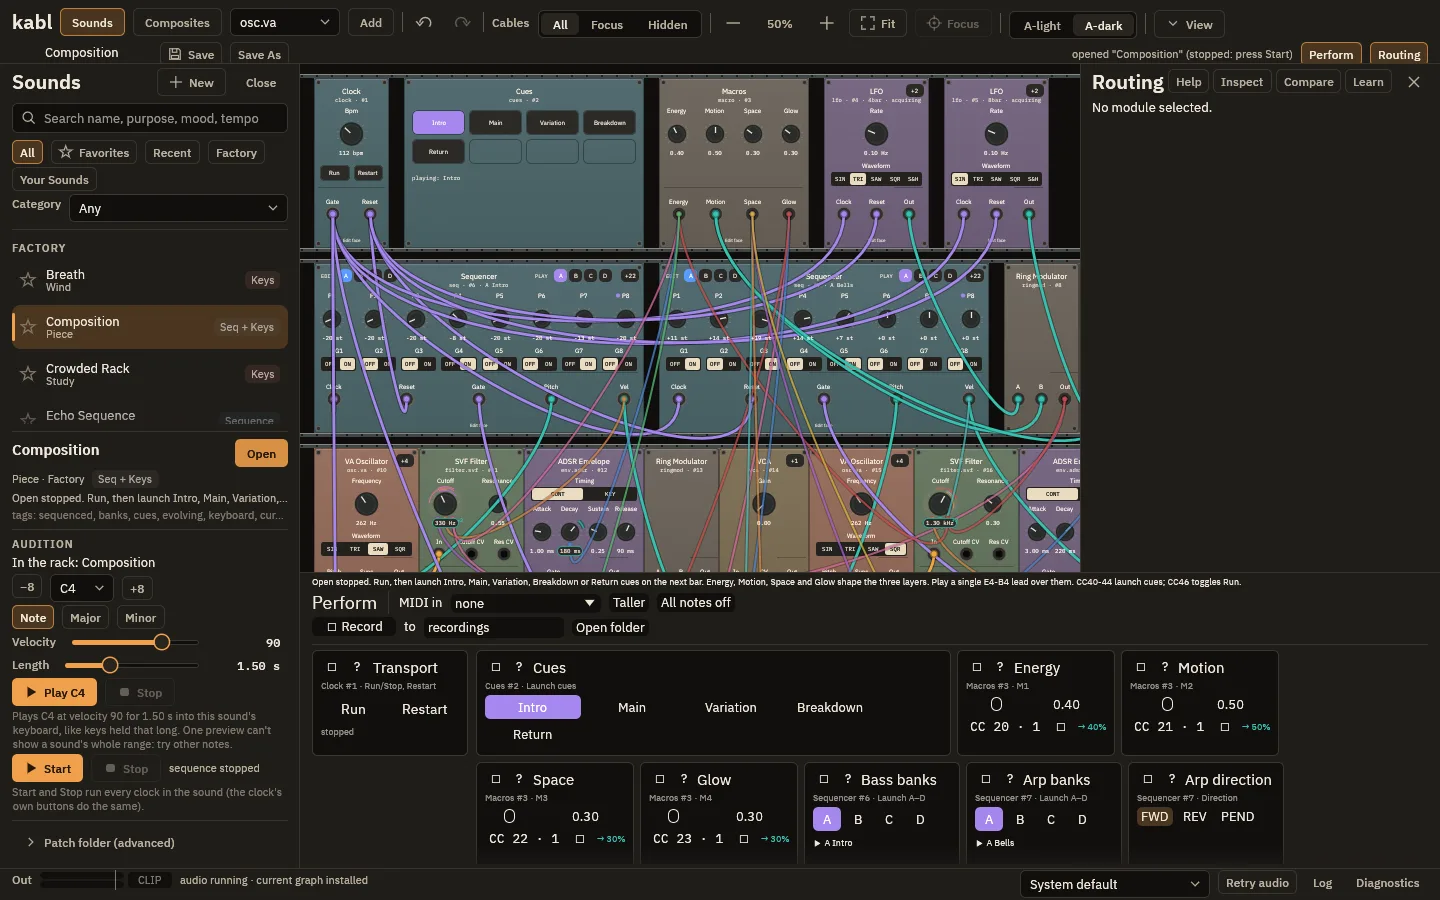
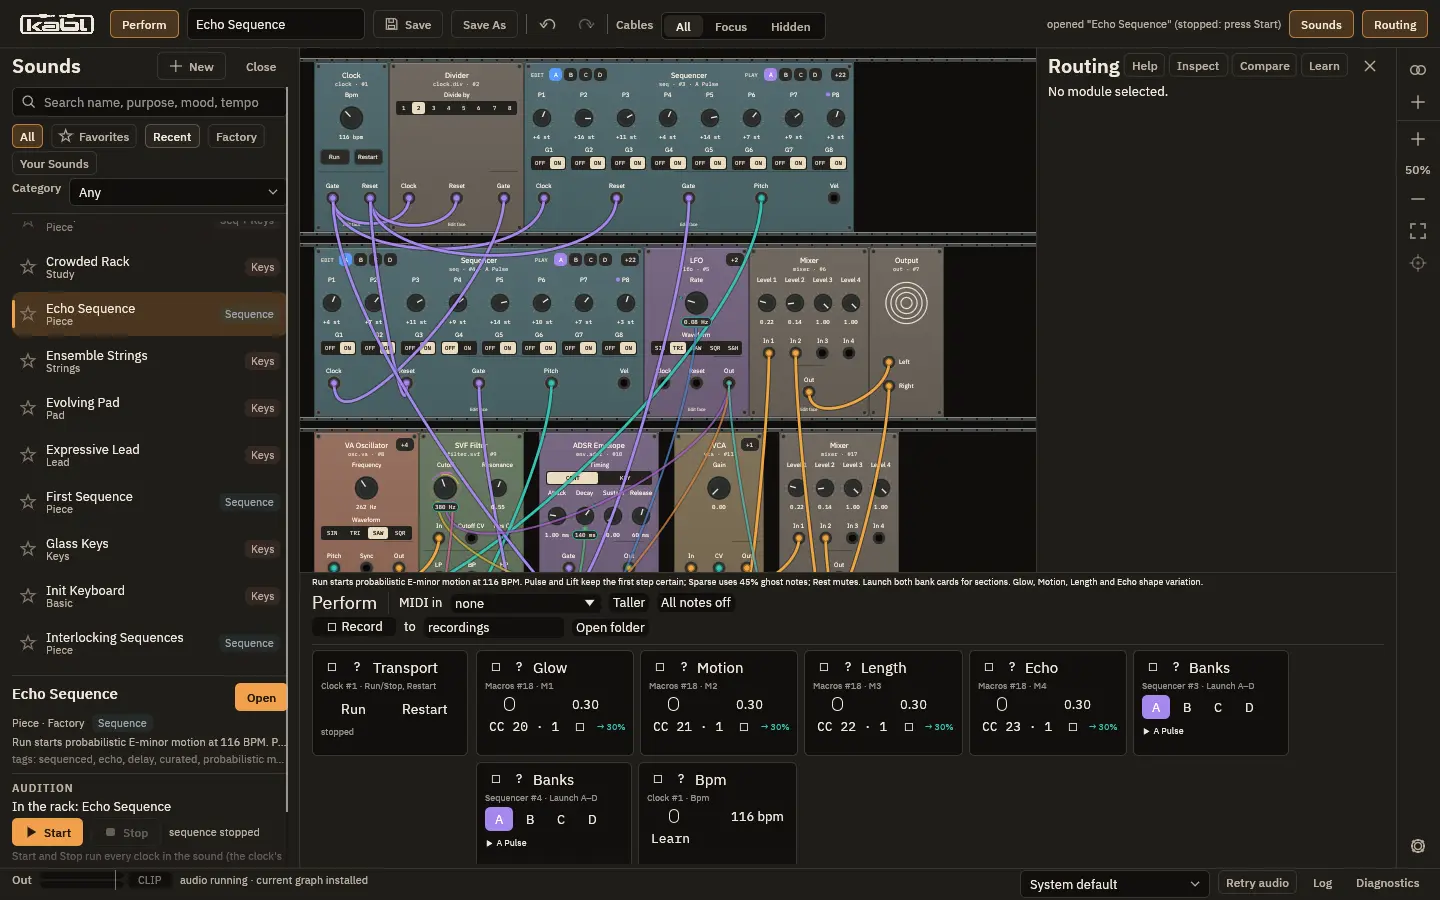
docs: widget-set checkpoint 5, fresh captures, plugin editor captures
Claude-Session: https://claude.ai/code/session_016ymSF6LYAPWBieBRyiJLUD

diff --git a/docs/design/app-target/WIDGET-SET-HANDOFF.md b/docs/design/app-target/WIDGET-SET-HANDOFF.md
@@ -118,3 +118,31 @@ Departures from the A mockups: no side rail; no Rack|Perform switch (Perform sta
 - Box glyphs in the Perform panel are egui's painted checkboxes (stock, unchanged from master), not missing font glyphs.
 - Captures with Composition/Echo open Perform and Routing by themselves (the app opens them for pieces); that is app behaviour.
 - Tests 276 passed, 0 failed, 21 ignored; clippy clean.
+
+## Checkpoint 5 (task A complete, rebased on master)
+
+Branch rebased onto `origin/master` (bb70204: PR #16, #17, #19 merged); PR #18 retargeted to master.
+
+- Toolbar is one 48 px row: logo, Perform toggle, doc name, Save, Save As, undo/redo, Cables All/Focus/Hidden, then Sounds and Routing on the right (last message and REC indicator truncate to the room left).
+- 44 px right rail (`rail()` in `lib.rs`): Composites toggle, Add module popover (kind dropdown + Add), zoom +, %, -, Fit, Focus, and at the bottom a settings popover (A-light/A-dark and the View toggles). Hit keys unchanged except `add-menu` (opens the Add popover) and `view-menu` (now the gear). `kit::icon_menu` is the new popover-button widget.
+- Sounds list height is `body_h - 330` (min 300); audition and patch folder sit below it in the scrolling panel body. `browser-body` is recorded so tests can scroll to controls. `every_control_is_reachable_at_both_sizes` now scrolls panel-body controls into view and operates them; the toolbar/header keys must still be on screen unscrolled. The test harness `click` scrolls the body first.
+- Canvas-size tests subtract the rail width (`Metrics::default().rail_w`).
+- Logo: Kosta's SVGs under `crates/ui/assets/logo/` (README there). The wide lockup, rendered white to a PNG mask and tinted from `roles.text`, is used at 30 px height (`kit::logo`); the small mark SVG is stored, unused.
+- Verification at this head: `cargo test --workspace` 728 passed, 0 failed, 28 ignored. Strict clippy (`-D warnings`) clean for all lib, bin, test and example targets except `crates/ui/examples/app_target/*`, which already fails on master (mockup renderer from PR #16, not touched here). Plugin editor checked in REAPER 7.75 under Xvfb: media/widget-set/plugin/.
+- Plugin: editor is fixed at 1180x680 logical (resizing the host window does not resize it), so 1440x900 and 1280x800 apply to the standalone only. No status bar in the plugin (standalone `main.rs` only): audio and device state belong to the host; the last message and REC indicator are in the toolbar. Light and dark both render; Sounds panel opens; settings popover works.
+- Frame times after (release, `bench_chrome`, browser + drawer open): simple 1440x900 light 507 us, dark 514; dense 1440x900 light 4464, dark 4865; simple 1280x800 light 522, dark 498; dense 1280x800 light 2919, dark 2901. (Before: see above. Not optimised; that follows Perform.)
+- osc.fm6 face (PR #19): the Algorithm and Ratio selector strips draw overlapping labels at 100% zoom. The same overlap appears on a master build (bb70204), so it is not from this branch. Face is wider than the canvas at the 50% minimum zoom.
+
+### Departures from the A mockups (rack-sounds scenes)
+- No Rack|Perform segmented control: Perform stays a toggle chip (bottom panel, not a view switch).
+- No prev/next arrows beside the document name.
+- Rail icons differ: mockup shows panel, routing, composites, learn; ours holds composites, add, zoom, settings (Sounds and Routing stay in the toolbar; Learn stays in the Routing drawer header).
+- At 1280x800 the Audition block is below the fold of the Sounds panel (scroll); the mockup fits list and audition together. Audition is not a bordered card; Note/Major/Minor chips and the extra rows differ from the mockup's Note/Chord pair.
+- Wide lockup in the toolbar is 90x30 px: the plugs are small details at that size.
+- Rack, faces, knobs, Perform panel, drawer bodies are unchanged (out of scope).
+- The standalone status bar has no MIDI device line (the mockup shows "MIDI · KeyLab 49" and a voice count).
+
+### Unverified
+- The scaled (1.5) run is one capture at light; dark scaled not looked at.
+- Plugin on other hosts and the Wayland path.
+- Real MIDI/audio devices (captures run without them).
